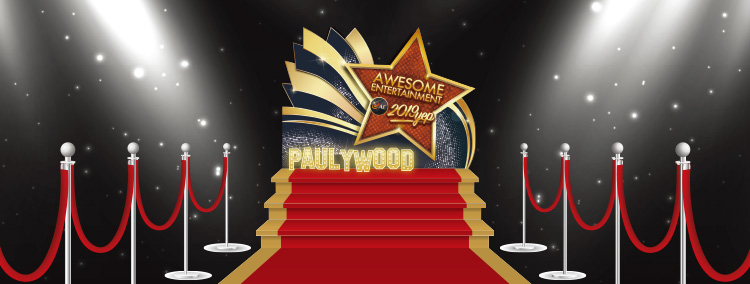
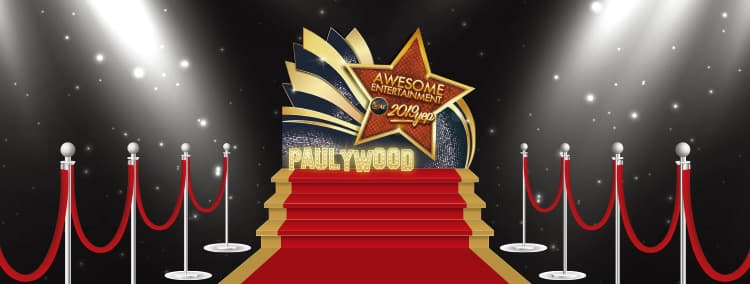
YEP

diff --git a/YEP/index-tb.html b/YEP/index-tb.html
@@ -13,10 +13,10 @@
 
     <table width="750" align="center" cellpadding="0" cellspacing="0" style="font-family: Times, serif;">
         <tr>
-            <td colspan="5"  width="750" height="445"><img src="img/tb-kv.jpg" style="display:block"></td>
+            <td colspan="5"  width="750" height="445"><img src="img/tb-kv-0.jpg" style="display:block"></td>
         </tr>
         <tr>
-            <td colspan="5"  width="750" height="284"><img src="img/tb-kv2.jpg" style="display:block"></td>
+            <td colspan="5"  width="750" height="284"><img src="img/tb-kv2-0.jpg" style="display:block"></td>
         </tr>
         <tr>
             <td colspan="2"  width="243" height="135" bgcolor="#a50d15" style="background: linear-gradient(to bottom, #a00d14 0%,#b00f17 100%);"><img src="img/tb-stg1b.jpg" style="display:block"></td>
@@ -51,7 +51,7 @@
                 <div style="font-size: 0;
                 width: 1px;
                 height: 25px;
-                background-color: #fff;
+                border-right: 1px solid #fff;
                 display: inline-block;margin: 0 10px;"></div>
                 <div style="line-height: 1.2;
     font-size: 34px;
